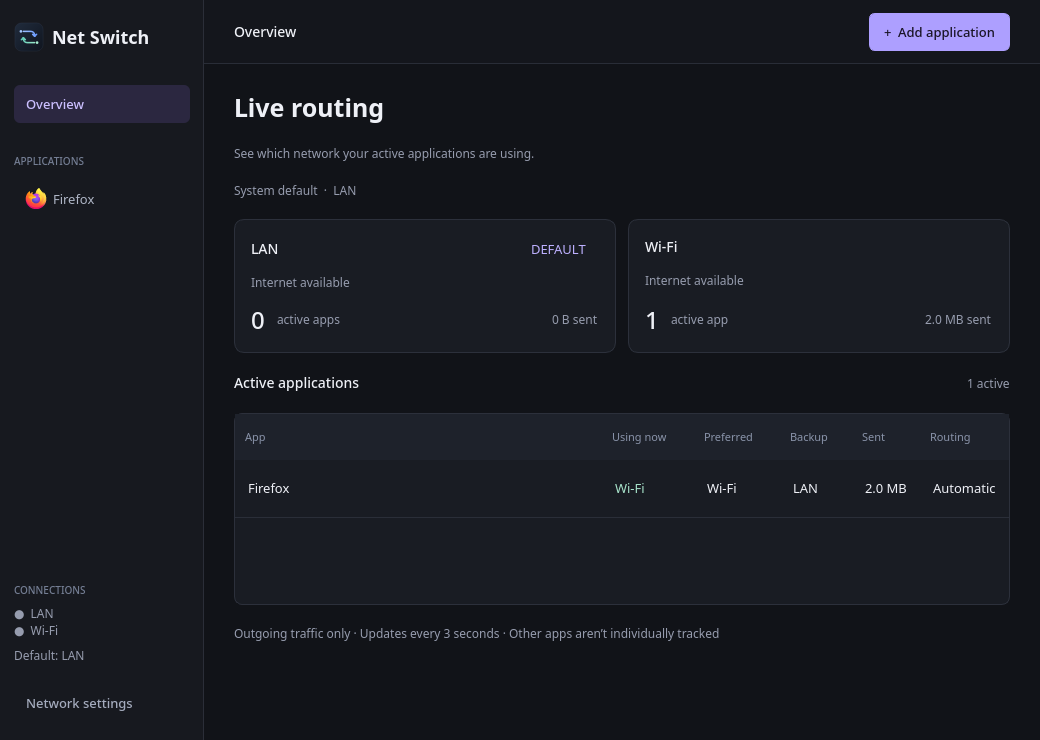
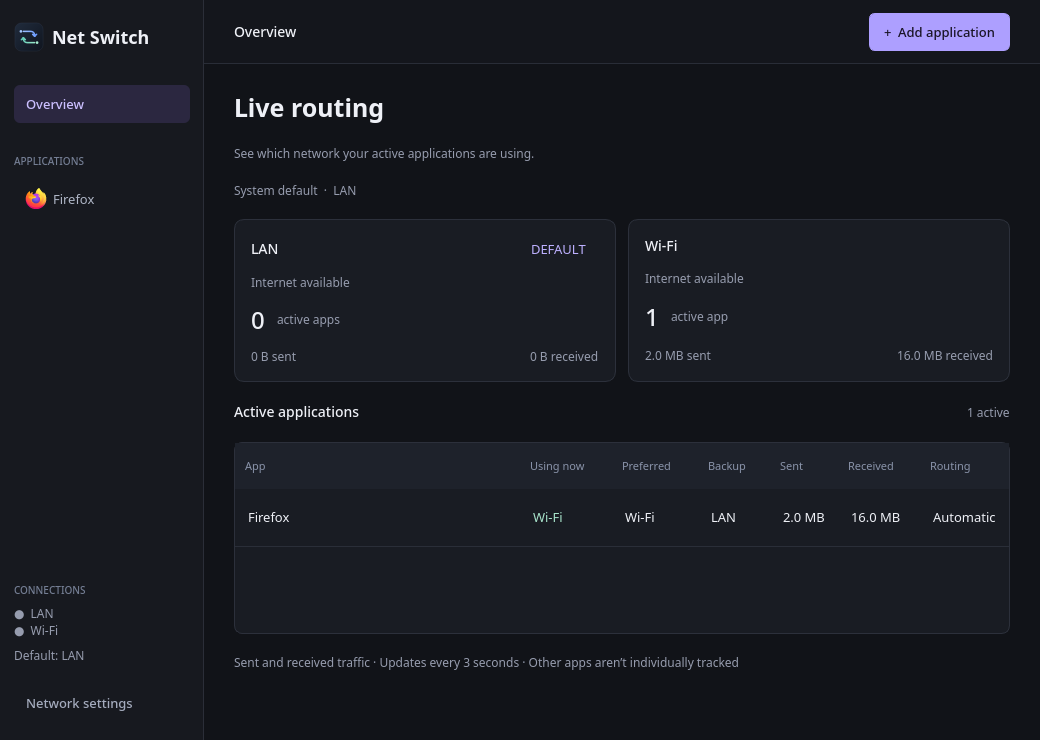
Add received traffic counters to app routing
- Track incoming TCP/UDP traffic for app sockets
- Show received totals in the usage view and demo screenshots
- Document counter scope and service update requirements

diff --git a/netswitch/ui/usage.py b/netswitch/ui/usage.py
@@ -1,4 +1,4 @@
-"""Read-only live routing view; counters are outbound, never invented downloads."""
+"""Read-only live routing view with per-session sent and received counters."""
 from PyQt6.QtCore import Qt
 from PyQt6.QtGui import QColor
 from PyQt6.QtWidgets import (QAbstractItemView, QGridLayout, QHeaderView, QHBoxLayout,
@@ -43,8 +43,8 @@ class UsagePage(QScrollArea):
         empty_layout.addWidget(self.empty)
         empty_layout.addStretch()
         layout.addWidget(self.empty_panel)
-        self.table = QTableWidget(0, 6)
-        self.table.setHorizontalHeaderLabels(['App', 'Using now', 'Preferred', 'Backup', 'Sent', 'Routing'])
+        self.table = QTableWidget(0, 7)
+        self.table.setHorizontalHeaderLabels(['App', 'Using now', 'Preferred', 'Backup', 'Sent', 'Received', 'Routing'])
         self.table.setEditTriggers(QAbstractItemView.EditTrigger.NoEditTriggers)
         self.table.setSelectionMode(QAbstractItemView.SelectionMode.NoSelection)
         self.table.setFocusPolicy(Qt.FocusPolicy.NoFocus)
@@ -55,8 +55,8 @@ class UsagePage(QScrollArea):
         self.table.horizontalHeader().setDefaultAlignment(Qt.AlignmentFlag.AlignLeft | Qt.AlignmentFlag.AlignVCenter)
         self.table.setHorizontalScrollBarPolicy(Qt.ScrollBarPolicy.ScrollBarAsNeeded)
         layout.addWidget(self.table)
-        note = label('Outgoing traffic only · Updates every 3 seconds · Other apps aren’t individually tracked', 'muted')
-        note.setToolTip('Sent counters start again when routing rules change. They are not a billing total and do not include downloads.')
+        note = label('Sent and received traffic · Updates every 3 seconds · Other apps aren’t individually tracked', 'muted')
+        note.setToolTip('Counters reset when routing rules change and exclude localhost traffic. They are not a billing total. Received traffic counts TCP/UDP packets matched to app sockets. — means the routing service needs updating or the counter is unavailable.')
         layout.addWidget(note)
         layout.addStretch()
 
@@ -75,6 +75,8 @@ class UsagePage(QScrollArea):
         for index, name in enumerate(names):
             active = [s for s in sessions if s.get('active') == name]
             sent = sum(s.get('traffic', {}).get('routed', {}).get('bytes', 0) for s in active)
+            received = [s.get('traffic', {}).get('received') for s in active]
+            received_text = bytes_text(sum(c['bytes'] for c in received)) if all(c is not None for c in received) else '—'
             card, card_layout = panel()
             header = QHBoxLayout()
             header.addWidget(label(friendly(name), 'heading'), 1)
@@ -87,8 +89,11 @@ class UsagePage(QScrollArea):
             metric = QHBoxLayout()
             metric.addWidget(label(str(len(active)), 'metric'))
             metric.addWidget(label(f'active {"app" if len(active) == 1 else "apps"}', 'muted'), 1)
-            metric.addWidget(label(f'{bytes_text(sent)} sent', 'muted'))
             card_layout.addLayout(metric)
+            totals = QHBoxLayout()
+            totals.addWidget(label(f'{bytes_text(sent)} sent', 'muted'), 1)
+            totals.addWidget(label(f'{received_text} received', 'muted'))
+            card_layout.addLayout(totals)
             self.connections.addWidget(card, index // 2, index % 2)
         self.count.setText(f'{len(sessions)} active')
         self.empty.setVisible(not sessions)
@@ -104,6 +109,7 @@ class UsagePage(QScrollArea):
             values = [title_for(session), friendly(session['active']) if session.get('active') else 'Waiting',
                       friendly(session.get('interface')), friendly(session.get('fallback')),
                       bytes_text(traffic.get('routed', {}).get('bytes', 0)),
+                      bytes_text(traffic['received']['bytes']) if traffic.get('received') is not None else '—',
                       'Automatic' if session.get('automatic') else 'Net Switch launch']
             for column, text in enumerate(values):
                 item = QTableWidgetItem(text)

diff --git a/tests/test_netswitch.py b/tests/test_netswitch.py
@@ -25,6 +25,32 @@ class RoutingTests(unittest.TestCase):
         self.assertEqual(len(commands), 2)
         self.assertTrue(all('unreachable' in c for c in commands))
 
+    def test_received_counter_is_read_only_and_scoped_to_app_sockets(self):
+        rules = core.nft_rules('s42000', 123, 'wlan0')
+        incoming = rules.split(' chain received {', 1)[1].split(' chain nat {', 1)[0]
+        self.assertIn('type filter hook input priority 300; policy accept;', incoming)
+        self.assertIn('iifname "lo" return', incoming)
+        self.assertIn('socket cgroupv2 level 2 "netswitch/s42000" counter', incoming)
+        self.assertNotIn('mark set', incoming)
+        self.assertNotIn('reject', incoming)
+
+    def test_status_reports_received_and_handles_missing_counters(self):
+        from types import SimpleNamespace
+        service = Service.__new__(Service)
+        service.sessions = {'s42000': {'id': 's42000', 'uid': 1000},
+                            's42001': {'id': 's42001', 'uid': 1001}}
+        counters = {'nftables': [{'rule': {'chain': chain, 'expr': [{'counter': counter}]}}
+                                for chain, counter in [('route', {'bytes': 500, 'packets': 5}),
+                                                       ('received', {'bytes': 8000, 'packets': 8})]]}
+        with patch('netswitch.daemon.execute', return_value=SimpleNamespace(returncode=0, stdout=json.dumps(counters))) as execute:
+            result = service.handle(1000, 1, {'action': 'status'})
+        self.assertEqual(len(result), 1)
+        self.assertEqual(result[0]['traffic']['received'], {'bytes': 8000, 'packets': 8})
+        self.assertEqual(result[0]['traffic']['routed']['bytes'], 500)
+        execute.assert_called_once()
+        with patch('netswitch.daemon.execute', return_value=SimpleNamespace(returncode=1)):
+            self.assertIsNone(service.handle(1000, 1, {'action': 'status'})[0]['traffic']['received'])
+
     def test_ipv4_only_connection_has_terminal_ipv6_route(self):
         device = {'name': 'wlan0', 'routes': {'-4': {'gateway': '192.0.2.1'}}}
         commands = core.route_commands(42000, device)

diff --git a/tests/test_usage.py b/tests/test_usage.py
@@ -19,10 +19,16 @@ class UsageTests(unittest.TestCase):
         devices = [{'name': 'wlan0', 'kind': 'Wi-Fi', 'connected': True},
                    {'name': 'eth0', 'kind': 'Ethernet / virtual', 'connected': True}]
         session = {'id': 's42000', 'pid': 123, 'interface': 'wlan0', 'fallback': 'eth0', 'active': 'eth0',
-                   'automatic': True, 'traffic': {'routed': {'bytes': 2048}, 'blocked': {'packets': 0}}}
+                   'automatic': True, 'traffic': {'routed': {'bytes': 2048}, 'received': {'bytes': 8192}, 'blocked': {'packets': 0}}}
         page.update_routes([session], devices, 'eth0', lambda _: 'Test browser')
-        self.assertEqual([page.table.item(0, c).text() for c in range(6)],
-                         ['Test browser', 'LAN', 'Wi-Fi', 'LAN', '2.0 KB', 'Automatic'])
+        self.assertEqual([page.table.item(0, c).text() for c in range(7)],
+                         ['Test browser', 'LAN', 'Wi-Fi', 'LAN', '2.0 KB', '8.0 KB', 'Automatic'])
+        from PyQt6.QtWidgets import QLabel
+        card = page.connections.itemAt(1).widget()
+        self.assertIn('8.0 KB received', [label.text() for label in card.findChildren(QLabel)])
+        session['traffic'].pop('received')
+        page.update_routes([session], devices, 'eth0', lambda _: 'Test browser')
+        self.assertEqual(page.table.item(0, 5).text(), '—')
         session['active'] = None
         page.update_routes([session], devices, 'eth0', lambda _: 'Test browser')
         self.assertEqual(page.table.item(0, 1).text(), 'Waiting')
@@ -32,6 +38,6 @@ class UsageTests(unittest.TestCase):
         self.assertTrue(page.table.isHidden())
         page.deleteLater()
 
-    def test_outgoing_bytes_format(self):
+    def test_bytes_format(self):
         self.assertEqual(bytes_text(0), '0 B')
         self.assertEqual(bytes_text(1024 * 1024), '1.0 MB')

diff --git a/scripts/render_demo.py b/scripts/render_demo.py
@@ -25,7 +25,8 @@ PROFILE = {'interface': 'wlan0', 'fallback': 'eth0', 'automatic': True,
            'command': ['/usr/bin/firefox', '--new-instance'], 'app': BROWSER}
 SESSION = {'id': 'demo-browser', 'pid': 60000, 'name': 'Firefox', 'interface': 'wlan0',
            'fallback': 'eth0', 'active': 'wlan0', 'automatic': True,
-           'traffic': {'routed': {'bytes': 2097152, 'packets': 1000}, 'blocked': {'packets': 0}}}
+           'traffic': {'routed': {'bytes': 2097152, 'packets': 1000},
+                       'received': {'bytes': 16777216, 'packets': 12000}, 'blocked': {'packets': 0}}}
 
 def response(data):
     if data['action'] == 'status':

diff --git a/netswitch/daemon.py b/netswitch/daemon.py
@@ -205,6 +205,7 @@ class Service:
                                 counter = expression['counter']
                                 counters[rule['chain']] = counter
                 public['traffic'] = {'routed': counters.get('route', {'packets': 0, 'bytes': 0}),
+                                     'received': counters.get('received'),
                                      'blocked': counters.get('guard', {'packets': 0, 'bytes': 0})}
                 sessions.append(public)
             return sessions

diff --git a/netswitch/core.py b/netswitch/core.py
@@ -109,6 +109,11 @@ def nft_rules(identifier, mark, active):
         output += f'  meta mark {mark} return\n'
     output += f'''  meta mark {mark} counter reject
  }}
+ chain received {{
+  type filter hook input priority 300; policy accept;
+  iifname "lo" return
+  socket cgroupv2 level 2 "netswitch/{identifier}" counter
+ }}
  chain nat {{
   type nat hook postrouting priority srcnat; policy accept;
 '''

diff --git a/README.md b/README.md
@@ -34,7 +34,7 @@ Browsers use your existing profile, including bookmarks, sign-ins, extensions an
 
 Steam games show **Set up in Steam** instead of launching Steam through the routing wrapper. Follow the three-step dialog and copy its per-game launch option. Net Switch does not change your Steam settings automatically. Restart the game when you are ready to apply its selected connection.
 
-**Overview** in the sidebar shows active routed apps, the network each is using now, its preferred and backup connections, and outgoing traffic counters. It refreshes every three seconds, including automatic sessions and apps launched through the CLI or Steam launch option. Unselected apps are not individually monitored. Counters reset when routing rules change and do not include incoming traffic.
+**Overview** in the sidebar shows active routed apps, the network each is using now, its preferred and backup connections, and sent and received traffic counters. Network cards summarize both directions for their active apps. It refreshes every three seconds, including automatic sessions and apps launched through the CLI or Steam launch option. Unselected apps are not individually monitored. Counters reset when routing rules change and exclude localhost traffic. Received counters measure incoming TCP/UDP packets matched to app sockets, not billing totals. A dash means the counter is unavailable; update an older routing service with `netswitch install-system` to enable received counters.
 
 **Network settings** controls the default connection for everything else. **Advanced options** exposes network adapter names and custom commands when needed. App discovery, dialogs, reusable widgets, theme tokens and the main window live in separate modules under `netswitch/apps.py` and `netswitch/ui/`; the sidebar/workspace layout and compact dark theme take inspiration from [T3 Code](https://github.com/pingdotgg/t3code).
 
